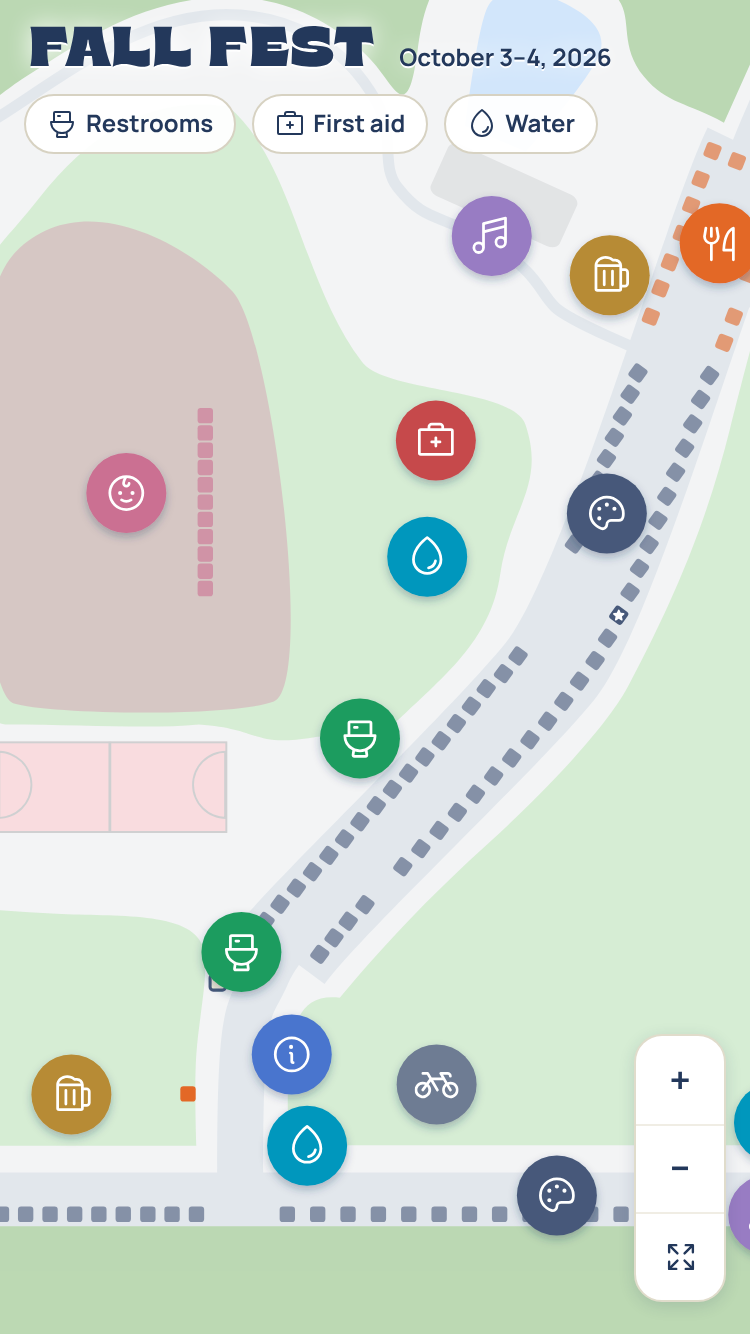
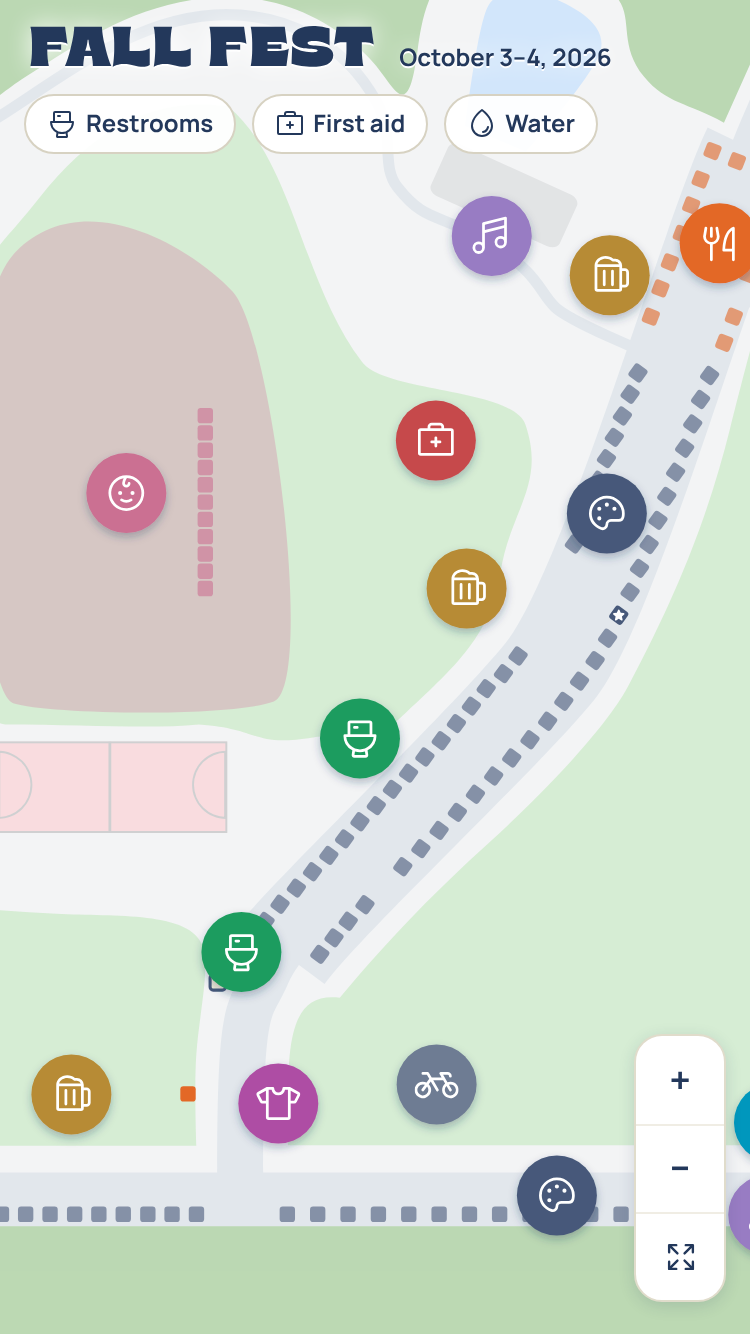
pr-notes: once shown, stays shown -- what changes now, the entrance, decision 1 closed
Re-captured the phone entrance at each stop: the first step now differs
from main only by Mr Softee and the Acoustic beer/water.

Claude-Session: https://claude.ai/code/session_014j8qHCkpZ773n8JnYS3A9x

Changed region(s): [[0.3067, 0.7376, 0.46, 0.8913], [0.4907, 0.3688, 0.6747, 0.4918]]

diff --git a/docs/pr-notes.md b/docs/pr-notes.md
@@ -18,27 +18,32 @@ an agent can query. One commit per item:
 8. **Design system 1.4.0**: `no-overlap` restated with the new priority; two new rules,
    `true-location` and `nudge-cap` (the cap is the rule's `constant`, checked against the code);
    a Pin placement table in §6; changelog.
+9. **Once shown, stays shown** (Ernest's answer to decision 1, option b): a pin on the map at a
+   coarser stop stays at every closer stop and outranks whatever it would collide with there
+   (`STAYS_RANK` in `src/pinPlacement.js`). Unit test, e2e check, and design-system rule
+   `stays-shown`; CLAUDE.md rule 6b.
 
 No stored x/y changed. Nothing ties, nothing is nudged and nothing is flagged with today's pins, so
 the split, the cap and the paper flag are tested on made-up pins.
 
 ## Which pins changed (375px phone)
 
-Only the phone's **first zoom step** changes. The overview, Detail, the docked desktop at every
-stop, and paper are pixel-identical to `main` (I checked the screenshots below byte for byte).
+Only the phone's **first zoom step** changes, and with once-shown-stays-shown only three pins move.
+The overview, Detail, the docked desktop at every stop, and paper are pixel-identical to `main`
+(I checked the screenshots below byte for byte).
 
 | Pin | Rank | Before: shown at | After: shown at | Why |
 |---|---|---|---|---|
-| Water, lawn beside Kidlandia (707.5, 455.5) | 3 | Detail | **first step**, Detail | Was held back by hand; water now outranks the beer stand |
-| Water, Acoustic Stage (888, 750) | 3 | Detail | **first step**, Detail | Outranks the Acoustic beer |
-| Water, McLendon entrance (645, 762) | 3 | Detail | **first step**, Detail | Outranks merch |
-| Info booth (637, 714.5) | 4 | Detail | **first step**, Detail | Clear of the entrance water (48 units, 46 needed); merch, its tie, is waiting |
-| **Beer stand** (728, 472) | 4 | overview, first step, Detail | overview, *—*, Detail | Gives way to the lawn water (26 units off) |
-| **Merch** (630, 740) | 4 | overview, first step, Detail | overview, *—*, Detail | Gives way to the entrance water (27 units off) |
-| Beer, Acoustic Stage (862, 750) | 4 | first step, Detail | Detail | Gives way to the Acoustic water |
-| Mr Softee, C3 (678, 476) | 5 | first step, Detail | Detail | Gives way to the lawn water (36 units off) |
-| Water, Kidlandia (552, 461) | 3 | Detail | Detail | No change: gives way to Kidlandia (rank 1) |
-| King of Pops, C1 (692.5, 377.5) | 5 | Detail | Detail | No change: gives way to first aid |
+| Water, Acoustic Stage (888, 750) | 3 | Detail | **first step**, Detail | Was held back by hand; water now outranks the Acoustic beer |
+| Beer, Acoustic Stage (862, 750) | 4 | first step, Detail | Detail | Gives way to the Acoustic water (26 units off). Not on the opening view, so stays-shown doesn't apply |
+| Mr Softee, C3 (678, 476) | 5 | first step, Detail | Detail | Sits on the lawn water's spot (36 units off). The water is itself waiting for the beer stand, but a waiting pin still holds its spot against lower ranks |
+| Beer stand (728, 472) | 4 | overview, first step, Detail | same | On the opening view, so it stays (stays-shown) |
+| Merch (630, 740) | 4 | overview, first step, Detail | same | On the opening view, so it stays (stays-shown) |
+| Water, lawn beside Kidlandia (707.5, 455.5) | 3 | Detail | Detail | Now waits by rule (the beer stand stays) rather than by hand |
+| Water, McLendon entrance (645, 762) | 3 | Detail | Detail | Now waits by rule (merch stays) |
+| Info booth (637, 714.5) | 4 | Detail | Detail | Now waits by rule (merch stays) |
+| Water, Kidlandia (552, 461) | 3 | Detail | Detail | Gives way to Kidlandia (rank 1) |
+| King of Pops, C1 (692.5, 377.5) | 5 | Detail | Detail | Gives way to first aid |
 
 Every other pin shows at the same stops as before. Docked desktop: every pin from the first step,
 before and after.
@@ -52,17 +57,18 @@ split-the-difference rule never fires with today's pins.
 | Stop | Before | After |
 |---|---|---|
 | Overview | merch | merch |
-| First step | merch | **info + water** (merch waits) |
+| First step | merch | merch (water and info wait: merch stays from the opening view) |
 | Detail | merch + info + water | merch + info + water |
 
-Docked desktop, before and after: merch / all three / all three. e2e asserts both.
+The entrance now behaves exactly as on `main`, but by rule instead of by hand. Docked desktop,
+before and after: merch / all three / all three. e2e asserts both.
 
 Screenshots of the entrance (wheel-zoomed on merch's spot, so the entrance stays in frame):
 
 | Stop | Before | After |
 |---|---|---|
 | Overview | `docs/pr-shots/entrance-phone-before-0.png` | `docs/pr-shots/entrance-phone-after-0.png` (identical) |
-| First step | `docs/pr-shots/entrance-phone-before-1.png` | `docs/pr-shots/entrance-phone-after-1.png` |
+| First step | `docs/pr-shots/entrance-phone-before-1.png` | `docs/pr-shots/entrance-phone-after-1.png` (only the Mr Softee square on the lawn and the Acoustic beer/water at the right edge differ) |
 | Detail | `docs/pr-shots/entrance-phone-before-2.png` | `docs/pr-shots/entrance-phone-after-2.png` (identical) |
 | Docked desktop, each stop | identical to after | `docs/pr-shots/entrance-desktop-{0,1,2}.png` |
 | Print sheet | identical to after | `docs/pr-shots/placement-print.png` |
@@ -81,21 +87,15 @@ someone places it by hand.
 
 **No baseline changes.** I expected `sheet-open` to go red, but CI passed all three visual checks
 (`phone-open`, `sheet-open`, `print`) against the existing baselines. The Kidlandia sheet opens at a
-view where nothing in frame changed. The local diffs (0.3–3.6%) were only this machine's text
+view where nothing in frame changed. Once shown, stays shown keeps that true: it only changes the first step. The local diffs (0.3–3.6%) were only this machine's text
 rendering. The `update-visual-baselines` label isn't needed.
 
 ## Decisions and questions for Ernest
 
-1. **Beer stand and merch disappear one step in.** They are on the opening view (the landmarks
-   from the 9/17 beta round), but at the first step a water station 26–27 units away now outranks
-   each one, so rule 3 hides them until Detail. This follows the rules exactly, but zooming in and
-   losing a landmark may feel odd. Options:
-   (a) keep as built;
-   (b) add a rule that a pin shown at a coarser stop stays at closer stops (it would then outrank
-   the water there, and the water would wait instead);
-   (c) move the two water stations far enough off. The lawn water would need 46 units from the
-   stand (it is 26.3); the entrance water would need 46 from merch (it is 26.6).
-   **I built (a)** because that is what the brief's rules say.
+1. **Beer stand and merch one step in — decided (Ernest, 10/17): option (b), once shown, stays
+   shown.** A pin on the map at a coarser stop stays at every closer stop and outranks anything
+   it would collide with there. The Food Court pin is the one exception: it still gives way to
+   its own stalls at Detail, as before. That exception is deliberate; say if you want it to stay.
 2. **Art-market markers** are not pins and have no rank. I treat them as fixed targets that never
    move or wait: any pin that would overlap one waits. That is how they were handled by hand
    before, and no pin is affected today.
